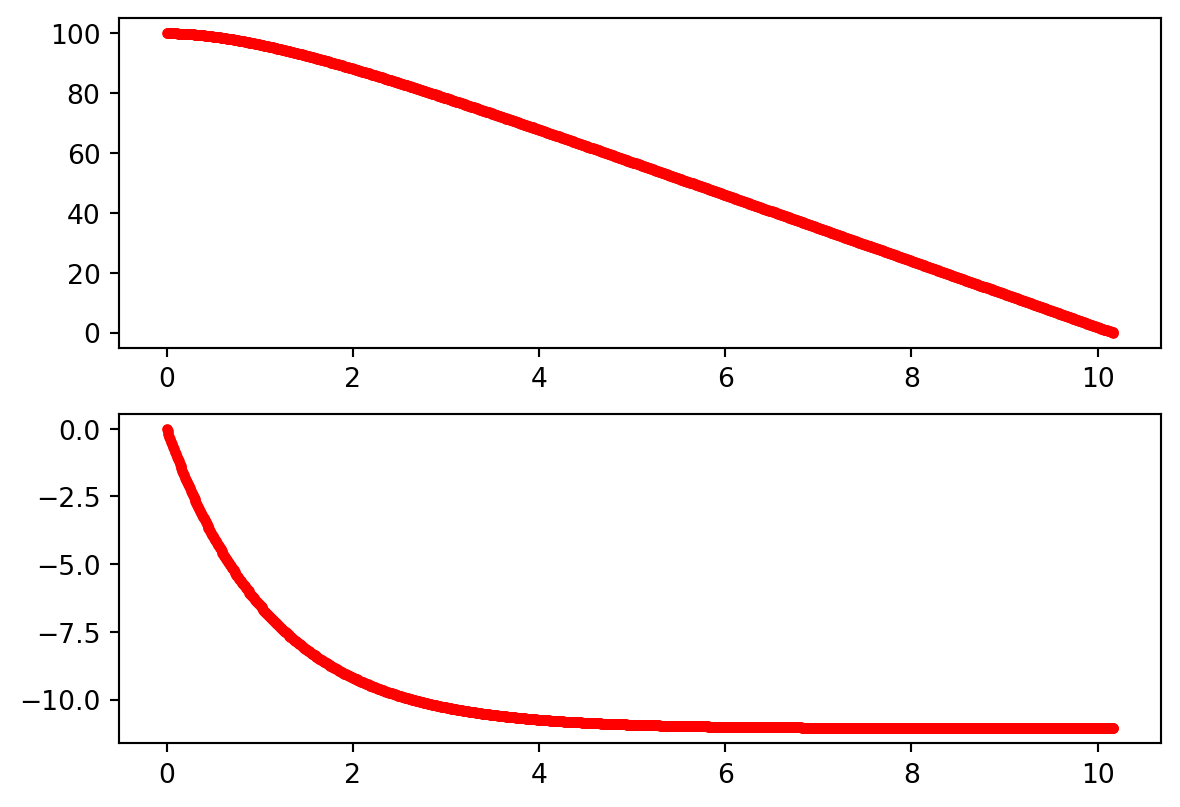
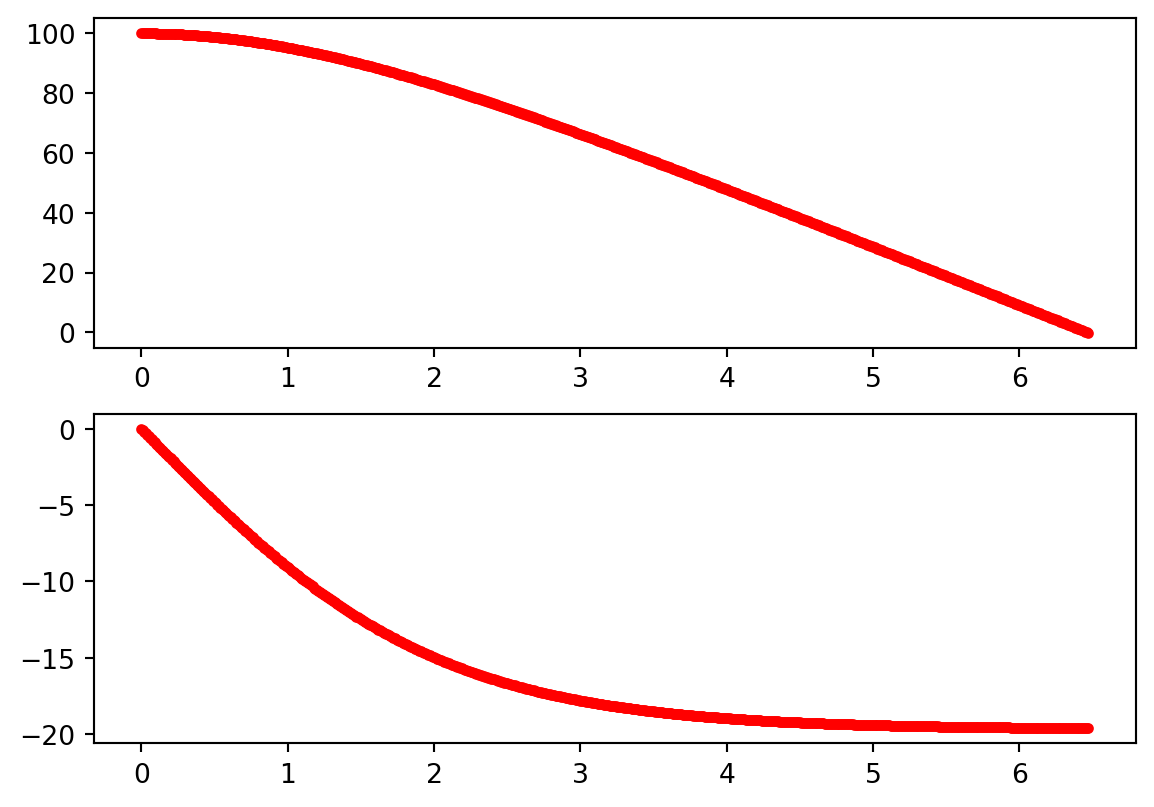
Removed problem 4 from Felix B's jump

diff --git a/docs/chapters/eulers.html b/docs/chapters/eulers.html
@@ -311,6 +311,7 @@ code span.wa { color: #60a0b0; font-weight: bold; font-style: italic; } /* Warni
 
 </header>
 
+<p><a href="https://lancejnelson.github.io/PH135/jupyter/eulers.ipynb">Jupyter Notebook</a></p>
 <p>In PH121 you will learn(or have already learned) how the position, velocity, and acceleration of an object are related to one another. One of the more challenging cases occurs when the acceleration of the object is not constant. The acceleration could vary with position, velocity, or time. In these cases, you may not be able to use calculus to find the position and/or velocity of an object. Instead, you’ll have to repeatedly use these equations</p>
 <p><span class="math display">\[
 v_{i+1} = v_i  + a_i \Delta t
@@ -339,7 +340,7 @@ y_\mathrm{n+1} = y_n + v_n  \Delta t
 <p><span class="math display">\[
 v_{n+1} = v_n - a \Delta t
 \]</span></p>
-<p>In the code cell below you will find an example of Euler’s method for a small styrofoam ball that is dropped from the top of a <span class="math inline">\(100\)</span>-m-tall building. The styrofoam ball has a mass <span class="math inline">\(m = 100\)</span> g, drag constant <span class="math inline">\(C = 0.07\)</span>, radius <span class="math inline">\(r = 0.25\)</span> m and the density of air is <span class="math inline">\(1.29\)</span> kg/m<span class="math inline">\(^3\)</span>.</p>
+<p>In the code cell below you will find an example of Euler’s method for a small styrofoam ball that is dropped from the top of a <span class="math inline">\(100\)</span>-m-tall building. The styrofoam ball has a mass <span class="math inline">\(m = 100\)</span> g, drag constant <span class="math inline">\(C = 0.02\)</span>, radius <span class="math inline">\(r = 0.25\)</span> m and the density of air is <span class="math inline">\(1.29\)</span> kg/m<span class="math inline">\(^3\)</span>.</p>
 <div class="cell" data-execution_count="1">
 <div class="sourceCode cell-code" id="cb1"><pre class="sourceCode python code-with-copy"><code class="sourceCode python"><span id="cb1-1"><a href="#cb1-1" aria-hidden="true" tabindex="-1"></a><span class="im">from</span> matplotlib <span class="im">import</span> pyplot <span class="im">as</span> plt</span>
 <span id="cb1-2"><a href="#cb1-2" aria-hidden="true" tabindex="-1"></a><span class="im">from</span> numpy <span class="im">import</span> pi</span>
@@ -349,14 +350,14 @@ v_{n+1} = v_n - a \Delta t
 <span id="cb1-6"><a href="#cb1-6" aria-hidden="true" tabindex="-1"></a>y <span class="op">=</span>[<span class="dv">100</span>]</span>
 <span id="cb1-7"><a href="#cb1-7" aria-hidden="true" tabindex="-1"></a>t <span class="op">=</span> [<span class="dv">0</span>]</span>
 <span id="cb1-8"><a href="#cb1-8" aria-hidden="true" tabindex="-1"></a>g <span class="op">=</span> <span class="fl">9.8</span></span>
-<span id="cb1-9"><a href="#cb1-9" aria-hidden="true" tabindex="-1"></a>C <span class="op">=</span> <span class="fl">0.07</span></span>
+<span id="cb1-9"><a href="#cb1-9" aria-hidden="true" tabindex="-1"></a>C <span class="op">=</span> <span class="fl">0.02</span></span>
 <span id="cb1-10"><a href="#cb1-10" aria-hidden="true" tabindex="-1"></a>rho <span class="op">=</span> <span class="fl">1.29</span></span>
 <span id="cb1-11"><a href="#cb1-11" aria-hidden="true" tabindex="-1"></a>r <span class="op">=</span> <span class="fl">.25</span></span>
 <span id="cb1-12"><a href="#cb1-12" aria-hidden="true" tabindex="-1"></a>A <span class="op">=</span> pi <span class="op">*</span> r<span class="op">**</span><span class="dv">2</span></span>
 <span id="cb1-13"><a href="#cb1-13" aria-hidden="true" tabindex="-1"></a>m <span class="op">=</span> <span class="fl">.1</span></span>
 <span id="cb1-14"><a href="#cb1-14" aria-hidden="true" tabindex="-1"></a></span>
 <span id="cb1-15"><a href="#cb1-15" aria-hidden="true" tabindex="-1"></a><span class="cf">while</span> y[<span class="op">-</span><span class="dv">1</span>] <span class="op">&gt;</span> <span class="dv">0</span>:</span>
-<span id="cb1-16"><a href="#cb1-16" aria-hidden="true" tabindex="-1"></a>  a <span class="op">=</span> <span class="op">-</span><span class="dv">1</span><span class="op">/</span><span class="dv">2</span><span class="op">/</span>m <span class="op">*</span> rho <span class="op">*</span> A <span class="op">*</span> C <span class="op">*</span> v[<span class="op">-</span><span class="dv">1</span>]<span class="op">/</span>m <span class="op">-</span> g</span>
+<span id="cb1-16"><a href="#cb1-16" aria-hidden="true" tabindex="-1"></a>  a <span class="op">=</span> <span class="dv">1</span><span class="op">/</span><span class="dv">2</span><span class="op">/</span>m <span class="op">*</span> rho <span class="op">*</span> A <span class="op">*</span> C <span class="op">*</span> v[<span class="op">-</span><span class="dv">1</span>]<span class="op">**</span><span class="dv">2</span> <span class="op">-</span> g</span>
 <span id="cb1-17"><a href="#cb1-17" aria-hidden="true" tabindex="-1"></a>  v.append(v[<span class="op">-</span><span class="dv">1</span>]<span class="op">+</span> a <span class="op">*</span> dt)</span>
 <span id="cb1-18"><a href="#cb1-18" aria-hidden="true" tabindex="-1"></a>  y.append(y[<span class="op">-</span><span class="dv">1</span>] <span class="op">+</span> v[<span class="op">-</span><span class="dv">1</span>] <span class="op">*</span> dt)</span>
 <span id="cb1-19"><a href="#cb1-19" aria-hidden="true" tabindex="-1"></a>  t.append(t[<span class="op">-</span><span class="dv">1</span>] <span class="op">+</span> dt)</span>
@@ -368,7 +369,7 @@ v_{n+1} = v_n - a \Delta t
 <span id="cb1-25"><a href="#cb1-25" aria-hidden="true" tabindex="-1"></a>ax2.plot(t,v,<span class="st">'r.'</span>)</span>
 <span id="cb1-26"><a href="#cb1-26" aria-hidden="true" tabindex="-1"></a>plt.show()</span></code><button title="Copy to Clipboard" class="code-copy-button"><i class="bi"></i></button></pre></div>
 <div class="cell-output cell-output-display">
-<p><img src="eulers_files/figure-html/cell-2-output-1.png" width="590" height="404"></p>
+<p><img src="eulers_files/figure-html/cell-2-output-1.png" width="577" height="404"></p>
 </div>
 </div>
 </section>

diff --git a/docs/chapters/numericalCalculus.html b/docs/chapters/numericalCalculus.html
@@ -650,16 +650,7 @@ y(x) = \exp{-0.05 x} \cos(x)
 <li>Using the center-difference formula, calculate the derivative of this data. What quantity do you get when you take a derivative of position vs.&nbsp;time data?</li>
 <li>Calculate the second derivative of this data. What quantity do you get when you take a second derivative of position vs.&nbsp;time data?</li>
 <li>Plot the derivatives and inspect them to verify that they make sense.</li>
-<li>The original data set has a column that contains the Felix’s speed and the y-component of his acceleration. Plot this column vs.&nbsp;time and compare to the derivatives you performed to see if they match (or are close).</li>
-</ol></li>
-<li><p><a href="https://lancejnelson.github.io/PH135/files/Redbull_jump_full.csv">This file</a> contains data from Felix Baumgartner’s 2012 jump from an altitude of <span class="math inline">\(39\)</span> km above the surface of the earth. Complete the following:</p>
-<ol type="1">
-<li>Read the data file into a pandas dataframe.</li>
-<li>Plot the y-component of acceleration vs.&nbsp;time.</li>
-<li>Using rectangles, calculate the indefinite integral of this data.</li>
-<li>Repeat step 3 but with trapezoids this time.</li>
-<li>Plot the integral vs time. You may recall that the integral of acceleration is velocity (or rather the change in velocity). Does the plot look right.</li>
-<li>The original data set has a column that contains the Felix’s speed. Plot this column vs.&nbsp;time and compare to the integral you performed to see if they match (or are close).</li>
+<li>The original data set has a column that contains the Felix’s airspeed (in km/hour). Plot this column vs.&nbsp;time and compare to the derivative you performed to see if they match (or are close).</li>
 </ol></li>
 </ol>
 
